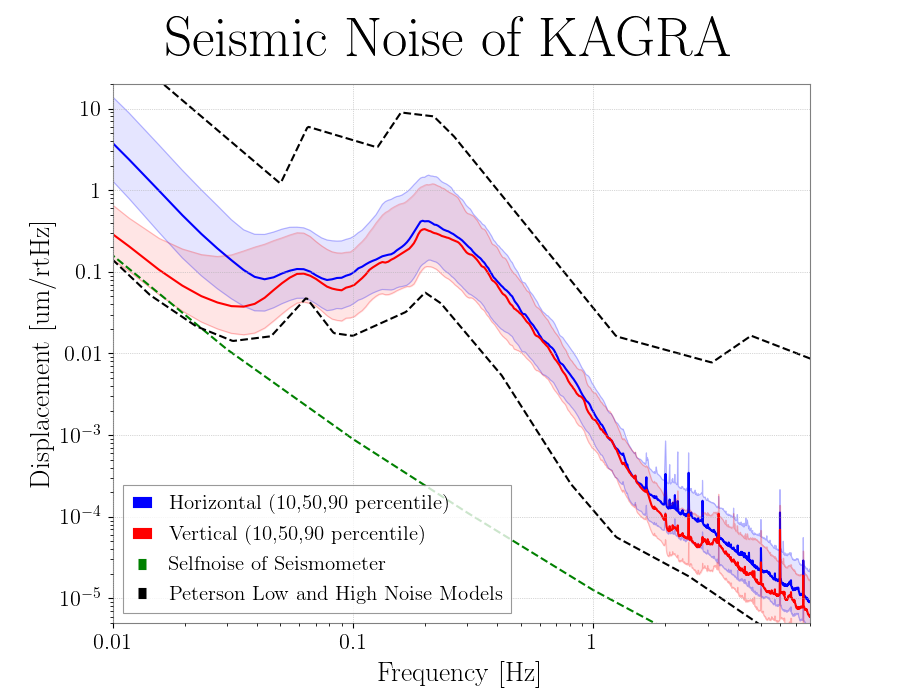
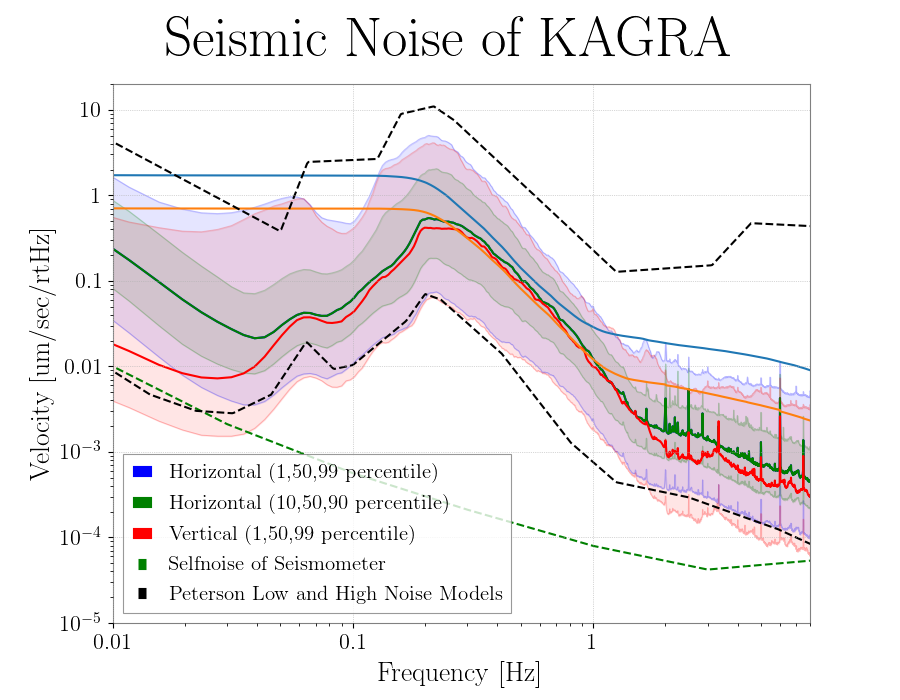
Update

diff --git a/underGroundMotion/seismicnoise/main2_histogram.py b/underGroundMotion/seismicnoise/main2_histogram.py
@@ -26,7 +26,7 @@ lfreq, ldisp = lfreq, lvel/(2.0*np.pi*lfreq)
 hfreq, hdisp = hfreq, hvel/(2.0*np.pi*hfreq)
 
 
-def plot_band_histgram(blrms,blrms2,blrms3,scale=0.9,loc=0):
+def _plot_band_histgram(blrms,blrms2,blrms3,scale=0.9,loc=0):
     blrms.override_unit('m/s')    
     blrms = blrms/amp*c2v/1000*1e6
     blrms2 = blrms2/amp*c2v/1000*1e6
@@ -39,8 +39,8 @@ def plot_band_histgram(blrms,blrms2,blrms3,scale=0.9,loc=0):
     fig, ax = plt.subplots(1,1,figsize=(7,7))
     plt.title('BLRMS Histgram')
     ax.step(bins[:-1],hist,where='post',color='k',label='100-300mHz')
-    ax.step(bins2[:-1],hist2,where='post',color='r',label='100-200mHz')
-    ax.step(bins3[:-1],hist3,where='post',color='b',label='200-300mHz')
+    ax.step(bins2[:-1],hist2*0.5,where='post',color='r',label='100-200mHz')
+    ax.step(bins3[:-1],hist3*0.5,where='post',color='b',label='200-300mHz')
     ax.set_ylim(0,10)
     ax.set_xlabel('Horizontal motion [um/sec]')
     ax.set_xscale('log')
@@ -59,10 +59,67 @@ def plot_band_histgram(blrms,blrms2,blrms3,scale=0.9,loc=0):
     ax2.axhline(y=0.90, color='k', linestyle=':',zorder=0)
     plt.savefig('./results/histgram.png')
     plt.close()
+    
+def plot_band_histgram(blrms,scale=0.9,loc=0,suffix=''):
+    blrms.override_unit('m/s')    
+    blrms = blrms/amp*c2v/1000*1e6
+    #
+    #hist,bins   = np.histogram(blrms ,density=False,bins=3000,range=(1e-2,10))
+    hist,bins   = np.histogram(blrms ,density=True,bins=3000,range=(1e-2,10))
+    #
+    fig, ax = plt.subplots(1,1,figsize=(7,7))
+    plt.title('BLRMS Histgram')
+    ax.step(bins[:-1],hist,where='post',color='k',label='100-300mHz')
+    #ax.set_ylim(0,2500)
+    ax.set_ylim(0,10)
+    ax.set_xlabel('Horizontal motion [um/sec]')
+    ax.set_xscale('log')
+    ax.set_xlim(1e-2,10)
+    #ax.set_ylabel('Normarized Counts')
+    ax.set_ylabel('Counts')
+    ax.legend()
+    ax2 = ax.twinx()
+    ax2.set_ylabel('Cumulative Probability')
+    ax2.plot(bins[:-1],np.cumsum(hist)/np.float(np.sum(hist)),'k--',linewidth=2)
+    ax2.set_ylim(0,1)
+    ax2.set_yticks([0,0.1,0.5,0.9,1.0])
+    ax2.axhline(y=0.01, color='k', linestyle=':',zorder=0)
+    ax2.axhline(y=0.10, color='k', linestyle=':',zorder=0)    
+    ax2.axhline(y=0.50, color='k', linestyle=':',zorder=0)
+    ax2.axhline(y=0.90, color='k', linestyle=':',zorder=0)
+    ax2.axhline(y=0.99, color='k', linestyle=':',zorder=0)
+    fname = './results/histgram_{0}.png'.format(suffix)
+    print fname
+    plt.savefig(fname)
+    plt.close()
+    
 
 if __name__ == '__main__':
-    chname = 'K1:PEM-EX1_SEIS_Z_SENSINF_IN1_DQ'
-    x_blrms = TimeSeries.read('./data2/blrms/Z_100_300mHz_1211817600_1245372032.gwf',chname)
-    x_blrms2 = TimeSeries.read('./data2/blrms/Z_100_200mHz_1211817600_1245372032.gwf',chname)
-    x_blrms3 = TimeSeries.read('./data2/blrms/Z_200_300mHz_1211817600_1245372032.gwf',chname)    
-    plot_band_histgram(x_blrms,x_blrms2,x_blrms3)
+    import os
+    files = os.listdir('./data2')
+    files = filter(lambda x:'X_BLRMS_100_300mHz_' in x, files)
+    for fname in files:
+        print fname        
+        suffix = fname.split('300mHz_')[1][:-4]
+        try:
+            chname = 'K1:PEM-EX1_SEIS_WE_SENSINF_IN1_DQ'
+            x_blrms = TimeSeries.read('./data2/'+fname,chname)
+        except:
+            try:
+                chname = 'K1:PEM-EXV_SEIS_WE_SENSINF_IN1_DQ'            
+                x_blrms = TimeSeries.read('./data2/'+fname,chname)
+            except:
+                try:
+                    chname = 'K1:PEM-EXV_GND_TR120Q_X_IN1_DQ'
+                    x_blrms = TimeSeries.read('./data2/'+fname,chname)
+                except:
+                    chname = 'K1:PEM-SEIS_EXV_GND_EW_IN1_DQ'
+                    x_blrms = TimeSeries.read('./data2/'+fname,chname)                
+                    
+                
+        plot_band_histgram(x_blrms,suffix=suffix)
+    # x_blrms = TimeSeries.read('./data2/blrms/Z_100_300mHz_1211817600_1245372032.gwf',chname)
+    # x_blrms2 = TimeSeries.read('./data2/blrms/Z_100_200mHz_1211817600_1245372032.gwf',chname)
+    # x_blrms3 = TimeSeries.read('./data2/blrms/Z_200_300mHz_1211817600_1245372032.gwf',chname)    
+    # __plot_band_histgram(x_blrms,x_blrms2,x_blrms3)
+    

diff --git a/underGroundMotion/seismicnoise/main2_seismicnoise.py b/underGroundMotion/seismicnoise/main2_seismicnoise.py
@@ -6,6 +6,9 @@ from miyopy.utils.trillium import Trillium
 from obspy.signal.spectral_estimation import get_nhnm, get_nlnm
 from gwpy.types.array2d import Array2D
 
+tr120 = Trillium('120QA')
+v2vel = tr120.v2vel    
+
 
 def peterson_noise_model(unit='um/sec'):
     '''
@@ -29,8 +32,8 @@ def peterson_noise_model(unit='um/sec'):
         raise ValueError(unit)
 
     
-def _percentile(axis,pctl=50,unit='um/sec',**kwargs):
-    _asd = FrequencySeries.read('./data2/LongTerm_{0}_{1}.hdf5'.format(axis,pctl))**0.5
+def _percentile(axis,pctl=50,unit='um/sec',suffix='',**kwargs):
+    _asd = FrequencySeries.read('./data2/LongTerm_{0}_{1}_{2}.hdf5'.format(axis,pctl,suffix))**0.5
     amp = 10**(30.0/20.0)
     c2v = 20.0/2**15    
     _asd = v2vel(_asd)*c2v/amp*1e6
@@ -56,24 +59,31 @@ def percentile(axis,**kwargs):
         raise ValueError('!!!')
 
 
-if __name__ == '__main__':
-    unit = 'um'
+def hoge(suffix=''):
+    unit = 'um/sec'
     #
-    tr120 = Trillium('120QA')
-    v2vel = tr120.v2vel    
     #
-    h50 = percentile('H',pctl=50,unit=unit)
-    h10 = percentile('H',pctl=10,unit=unit)
-    h90 = percentile('H',pctl=90,unit=unit)
-    z50 = percentile('Z',pctl=50,unit=unit)
-    z10 = percentile('Z',pctl=10,unit=unit)
-    z90 = percentile('Z',pctl=90,unit=unit)
+    #suffix = '1211817600_1245372032' # 1 year
+    #suffix = '1228594816_1232789120' # 12/11- 
+    h50 = percentile('H',pctl=50,unit=unit,suffix=suffix)
+    h01 = percentile('H',pctl=1,unit=unit,suffix=suffix)
+    h99 = percentile('H',pctl=99,unit=unit,suffix=suffix)
+    h99_rms = h99.rms()
+    h10 = percentile('H',pctl=10,unit=unit,suffix=suffix)
+    h90 = percentile('H',pctl=90,unit=unit,suffix=suffix)
+    h90_rms = h90.rms()    
+    z50 = percentile('Z',pctl=50,unit=unit,suffix=suffix)
+    z01 = percentile('Z',pctl=1,unit=unit,suffix=suffix)
+    z99 = percentile('Z',pctl=99,unit=unit,suffix=suffix)
     nlnm,nhnm = peterson_noise_model(unit=unit)
     selfnoise = tr120.selfnoise(unit=unit.replace('um','m'))*1e6
     #
     fig, ax = plt.subplots(1,1,figsize=(9,7))
-    ax.plot_mmm(h50,h10,h90,label='Horizontal (10,50,90 percentile)',color='blue')
-    ax.plot_mmm(z50,z10,z90,label='Vertical (10,50,90 percentile)',color='red')
+    ax.plot_mmm(h50,h01,h99,label='Horizontal (1,50,99 percentile)',color='blue')
+    ax.plot_mmm(h50,h10,h90,label='Horizontal (10,50,90 percentile)',color='green')
+    ax.plot_mmm(z50,z01,z99,label='Vertical (1,50,99 percentile)',color='red')
+    ax.loglog(h99_rms)
+    ax.loglog(h90_rms)
     ax.loglog(selfnoise,'g--',label='Selfnoise of Seismometer',alpha=1.0)
     ax.loglog(nlnm[0],nlnm[1],'k--')
     ax.loglog(nhnm[0],nhnm[1],'k--',label='Peterson Low and High Noise Models')
@@ -89,5 +99,15 @@ if __name__ == '__main__':
         ax.set_ylabel('Displacement [um/rtHz]')
     ax.legend(fontsize=15,loc='lower left')
     plt.suptitle('Seismic Noise of KAGRA',fontsize=40)
-    plt.savefig('./results/seismicnoise.png')
+    fname = './results/seismicnoise_{0}.png'.format(suffix)
+    print fname
+    plt.savefig(fname)
     plt.close()
+
+if __name__ == '__main__':    
+    import os
+    files = os.listdir('./data2')
+    files = filter(lambda x:'X_99_' in x, files)
+    suffix_list = map(lambda x: x.split('_99_')[1][:-5], files)
+    for suffix in suffix_list:
+        hoge(suffix=suffix)
